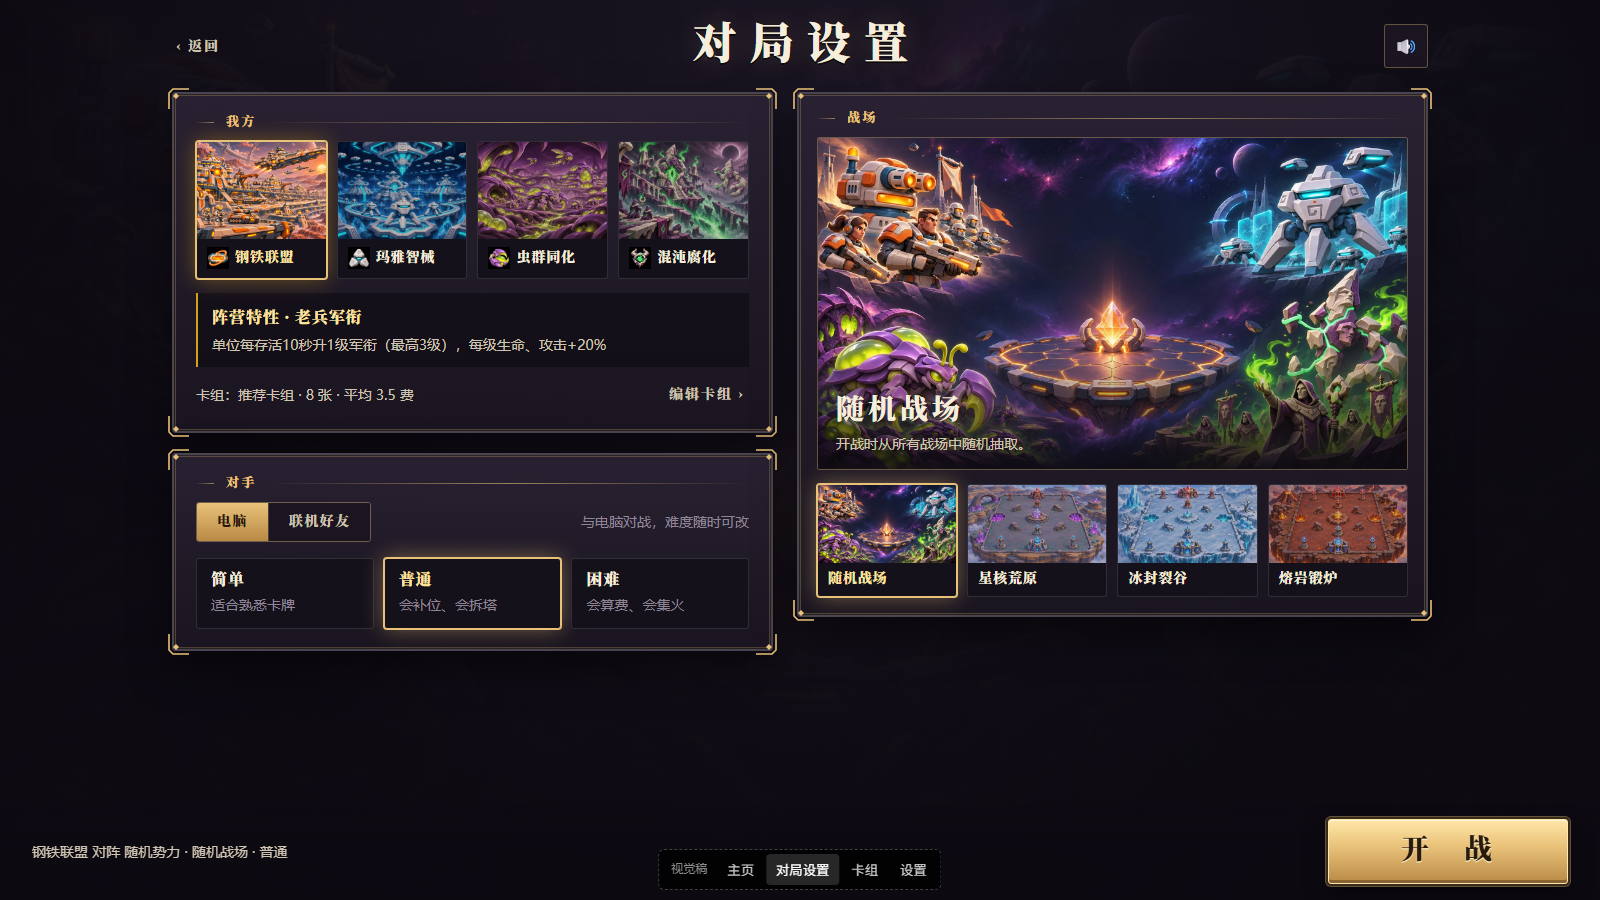
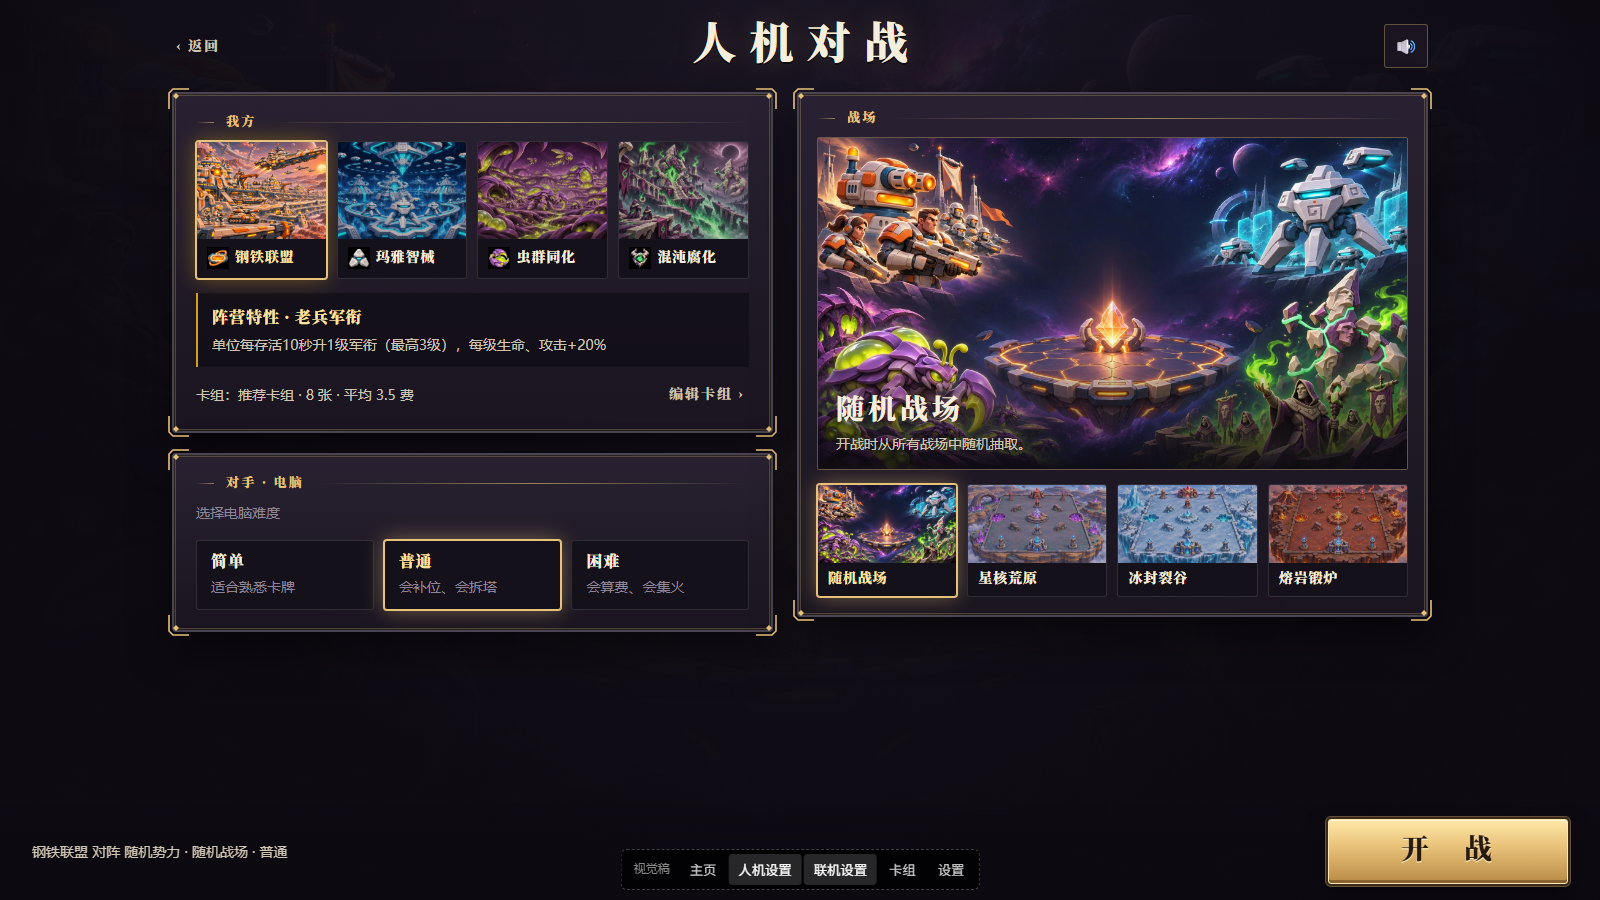
视觉稿 v0.2:主页改居中对称;人机/联机两个入口放主页,设置页按入口分模式;计划同步批注

diff --git a/mockup/index.html b/mockup/index.html
@@ -28,6 +28,7 @@
   :root { --t-display: 40px; --t-h1: 30px; --t-h2: 22px; --t-h3: 18px; --t-body: 15px; --t-over: 12px; }
 }
 * { box-sizing: border-box; }
+[hidden] { display: none !important; }
 html, body { margin: 0; height: 100%; }
 body {
   background: var(--bg-0); color: var(--ink-1); font: 400 var(--t-body)/1.55 var(--f-body);
@@ -37,7 +38,7 @@ body {
 
 /* 背景:主视觉 + 压暗(二级页压得更暗,突出内容) */
 .screen { position: fixed; inset: 0; display: none; overflow: auto;
-  background: linear-gradient(90deg, #0d0a12f2 0%, #0d0a12b8 34%, #0d0a1230 60%, #0d0a1200 100%), url(../assets/ui/bg_menu.webp) center / cover no-repeat, var(--bg-0); }
+  background: radial-gradient(ellipse 34% 62% at 50% 56%, #0d0a12cc 0%, #0d0a1299 55%, #0d0a1200 100%), linear-gradient(#0d0a1266, #0d0a1200 30%, #0d0a1200 70%, #0d0a12cc), url(../assets/ui/bg_menu.webp) center / cover no-repeat, var(--bg-0); }
 .screen.sub { background: radial-gradient(ellipse at 50% 0%, #2a223366, #0d0a12f0 70%), linear-gradient(#0d0a12d9, #0d0a12f2), url(../assets/ui/bg_menu.webp) center / cover no-repeat, var(--bg-0); }
 .screen.on { display: block; animation: enter .22s var(--ease); }
 @keyframes enter { from { opacity: 0; transform: translateY(8px); } }
@@ -79,20 +80,25 @@ body {
 .btn-text:hover { color: var(--gold-hi); }
 .btn-text:hover::after { transform: scaleX(1); }
 
-/* ── 主页 ── */
-.home { min-height: 100%; display: grid; grid-template-columns: minmax(340px, 420px) 1fr; padding: 48px 0 40px 72px; }
-.command { align-self: center; padding: 34px 30px 26px; display: grid; gap: 12px; }
-.command .logo { width: 100%; max-width: 340px; margin: -8px auto 10px; display: block; filter: drop-shadow(0 8px 18px #000c); }
-.start { display: grid; gap: 4px; text-align: left; padding: 20px 26px 18px; }
-.start .label { font-size: var(--t-h1); letter-spacing: .14em; display: flex; justify-content: space-between; align-items: center; }
-.start .label::after { content: '▸'; font-size: .7em; }
-.start .config { font: 600 var(--t-small)/1.3 var(--f-body); letter-spacing: 0; color: #4a3318; text-shadow: none; display: flex; align-items: center; gap: 6px; }
-.start .config img { width: 20px; height: 20px; }
-.command .btn-secondary { text-align: left; }
-.divider { height: 1px; background: linear-gradient(90deg, transparent, #e9c27a66, transparent); margin: 6px 0; }
-.xr-row { display: flex; align-items: center; gap: 12px; }
-.xr-row .btn-secondary { flex: 0 0 auto; border-color: #9a86ff99; }
-.xr-row .btn-secondary:hover { color: #d9d0ff; border-color: #b6a8ff; box-shadow: inset 0 0 18px #9a86ff33, 0 0 0 2px #0d0a12; }
+/* ── 主页:居中对称,呼应主视觉的中轴(左右两侧立绘对称、中间是晶石祭坛)── */
+.home { min-height: 100%; display: grid; justify-items: center; align-content: center; gap: 18px; padding: 28px 16px 64px; }
+.home .logo { width: min(520px, 84vw); display: block; filter: drop-shadow(0 10px 24px #000d); margin-bottom: -4px; }
+.command { width: min(440px, 100%); padding: 28px 28px 22px; display: grid; gap: 12px; text-align: center;
+  background: linear-gradient(180deg, #221b2ae6, #15111bf0); backdrop-filter: blur(4px); }
+.mode { display: grid; gap: 4px; justify-items: center; padding: 18px 24px 16px; }
+.mode .label { font-size: var(--t-h1); letter-spacing: .22em; padding-left: .22em; }
+.mode .config { font: 600 var(--t-small)/1.3 var(--f-body); letter-spacing: 0; display: flex; align-items: center; gap: 6px; }
+.mode .config img { width: 20px; height: 20px; }
+.btn-primary.mode .config { color: #4a3318; text-shadow: none; }
+.btn-secondary.mode { padding: 14px 24px 13px; }
+.btn-secondary.mode .label { font-size: var(--t-h2); }
+.btn-secondary.mode .config { color: var(--ink-2); }
+.minor { display: grid; grid-template-columns: repeat(3, 1fr); gap: 10px; }
+.minor .btn-secondary { padding: 12px 0; font-size: var(--t-body); }
+.divider { height: 1px; background: linear-gradient(90deg, transparent, #e9c27a66, transparent); margin: 4px 0; }
+.xr-link { justify-self: center; display: inline-flex; align-items: center; gap: 8px; color: #c9bfff; }
+.xr-link:hover { color: #e6e0ff; }
+.xr-link::after { background: #9a86ff; }
 .muted { color: var(--ink-3); font-size: var(--t-small); }
 .foot { position: fixed; right: 24px; bottom: 14px; color: var(--ink-3); font-size: var(--t-caption); letter-spacing: .08em; }
 .tools { position: fixed; top: 20px; right: 24px; display: flex; gap: 8px; }
@@ -199,8 +205,7 @@ body {
 
 /* ── 手机 ── */
 @media (max-width: 720px) {
-  .home { grid-template-columns: 1fr; padding: 24px 16px 70px; }
-  .command { padding: 26px 18px 20px; }
+  .command { padding: 22px 16px 18px; }
   .page { padding: 16px 16px 140px; }
   .topbar h1 { letter-spacing: .16em; }
   .setup, .deck { grid-template-columns: 1fr; }
@@ -221,26 +226,28 @@ body {
 <!-- ═════════ 主页 ═════════ -->
 <section class="screen on" id="s-home">
   <div class="home">
-    <div class="command frame">
+    <img class="logo" src="../assets/ui/brand/logo-zh.webp" alt="星轨对决">
+    <nav class="command frame" aria-label="主菜单">
       <span class="corners"><i></i><i></i><i></i><i></i></span>
-      <img class="logo" src="../assets/ui/brand/logo-zh.webp" alt="星轨对决">
-      <button class="btn btn-primary start" data-go="s-setup" title="视觉稿:实际为直接开局">
+      <button class="btn btn-primary mode" data-go="s-setup" data-mode="ai">
         <span class="label">开始游戏</span>
-        <span class="config"><img src="../assets/emblems/emblem_steel.webp" alt="">钢铁联盟 · 随机战场 · 普通电脑</span>
+        <span class="config"><img src="../assets/emblems/emblem_steel.webp" alt="">人机对战 · 钢铁联盟 · 普通</span>
       </button>
-      <button class="btn btn-secondary" data-go="s-setup">对局设置</button>
-      <button class="btn btn-secondary" data-go="s-deck">卡组</button>
-      <button class="btn btn-secondary">图鉴</button>
-      <button class="btn btn-secondary" data-go="s-settings">设置</button>
+      <button class="btn btn-secondary mode" data-go="s-setup" data-mode="online">
+        <span class="label">联机游戏</span>
+        <span class="config">和好友对战 · 建房或输入房号</span>
+      </button>
       <div class="divider"></div>
-      <div class="xr-row">
-        <button class="btn btn-secondary">◈ 空间大厅</button>
-        <span class="muted">已检测到 XR 设备</span>
+      <div class="minor">
+        <button class="btn btn-secondary" data-go="s-deck">卡组</button>
+        <button class="btn btn-secondary">图鉴</button>
+        <button class="btn btn-secondary" data-go="s-settings">设置</button>
       </div>
-    </div>
+      <button class="btn btn-text xr-link">◈ 进入空间大厅（XR）</button>
+    </nav>
   </div>
   <div class="tools"><button class="icon-btn" title="音效">🔊</button></div>
-  <div class="foot">STAR CLASH · 视觉稿 v0.1</div>
+  <div class="foot">STAR CLASH · 视觉稿 v0.2</div>
 </section>
 
 <!-- ═════════ 对局设置(原备战 + 联机)═════════ -->
@@ -248,7 +255,7 @@ body {
   <div class="page">
     <header class="topbar">
       <div><button class="btn btn-text" data-go="s-home">‹ 返回</button></div>
-      <h1>对局设置</h1>
+      <h1 id="setup-title">人机对战</h1>
       <div class="right"><button class="icon-btn" title="音效">🔊</button></div>
     </header>
     <div class="setup">
@@ -262,11 +269,8 @@ body {
         </section>
         <section class="slot frame">
           <span class="corners"><i></i><i></i><i></i><i></i></span>
-          <h2 class="over">对手</h2>
-          <div class="opp-row">
-            <div class="seg" id="opp"><button class="sel" data-v="ai">电脑</button><button data-v="online">联机好友</button></div>
-            <span class="muted" id="opp-hint">与电脑对战，难度随时可改</span>
-          </div>
+          <h2 class="over" id="opp-title">对手 · 电脑</h2>
+          <p class="muted" id="opp-hint" style="margin:0"></p>
           <div class="diffs" id="diffs">
             <button class="choice diff"><span class="name">简单</span><small>适合熟悉卡牌</small></button>
             <button class="choice diff sel"><span class="name">普通</span><small>会补位、会拆塔</small></button>
@@ -356,7 +360,7 @@ body {
 </section>
 
 <nav class="mock-nav" id="mock-nav"><span>视觉稿</span>
-  <button data-go="s-home" class="sel">主页</button><button data-go="s-setup">对局设置</button><button data-go="s-deck">卡组</button><button data-go="s-settings">设置</button>
+  <button data-go="s-home" class="sel">主页</button><button data-go="s-setup" data-mode="ai">人机设置</button><button data-go="s-setup" data-mode="online">联机设置</button><button data-go="s-deck">卡组</button><button data-go="s-settings">设置</button>
 </nav>
 
 <script>
@@ -388,10 +392,14 @@ let fac = FACTIONS[0], map = MAPS[0], opp = 'ai', deck = [...PRESET];
 
 function go(id) {
   document.querySelectorAll('.screen').forEach(s => s.classList.toggle('on', s.id === id));
-  document.querySelectorAll('#mock-nav button').forEach(b => b.classList.toggle('sel', b.dataset.go === id));
+  document.querySelectorAll('#mock-nav button').forEach(b => b.classList.toggle('sel', b.dataset.go === id && (!b.dataset.mode || b.dataset.mode === opp)));
   scrollTo(0, 0);
 }
-document.addEventListener('click', e => { const b = e.target.closest('[data-go]'); if (b) go(b.dataset.go); });
+document.addEventListener('click', e => {
+  const b = e.target.closest('[data-go]'); if (!b) return;
+  if (b.dataset.mode) { opp = b.dataset.mode; renderSetup(); }   // 主页两个入口进同一个设置页,模式不同
+  go(b.dataset.go);
+});
 
 function renderSetup() {
   $('#factions').innerHTML = FACTIONS.map(f => `<button class="choice${f === fac ? ' sel' : ''}" style="--fc:${f.color}" data-f="${f.id}">
@@ -404,15 +412,15 @@ function renderSetup() {
   $('#map-img').src = map.img || `../assets/scenes/${map.id}/concept.webp`;
   $('#map-name').textContent = map.name; $('#map-desc').textContent = map.desc;
   const online = opp === 'online';
+  $('#setup-title').textContent = online ? '联机对战' : '人机对战';
+  $('#opp-title').textContent = online ? '对手 · 好友' : '对手 · 电脑';
   $('#diffs').hidden = online; $('#online').classList.toggle('on', online); $('#board').hidden = !online;
-  $('#opp-hint').textContent = online ? '建房后把房号发给好友，或输入好友的房号' : '与电脑对战，难度随时可改';
+  $('#opp-hint').textContent = online ? '建房后把房号发给好友；或者输入好友的房号加入' : '选择电脑难度';
   $('#go').textContent = online ? '创建房间' : '开　战';
   $('#go-hint').textContent = online ? `${fac.name} · ${map.name} · 等待好友加入` : `${fac.name} 对阵 随机势力 · ${map.name} · 普通`;
-  document.querySelectorAll('#opp button').forEach(b => b.classList.toggle('sel', b.dataset.v === opp));
 }
 $('#factions').addEventListener('click', e => { const b = e.target.closest('[data-f]'); if (b) { fac = FACTIONS.find(f => f.id === b.dataset.f); renderSetup(); } });
 $('#maps').addEventListener('click', e => { const b = e.target.closest('[data-m]'); if (b) { map = MAPS.find(m => m.id === b.dataset.m); renderSetup(); } });
-$('#opp').addEventListener('click', e => { const b = e.target.closest('[data-v]'); if (b) { opp = b.dataset.v; renderSetup(); } });
 $('#diffs').addEventListener('click', e => { const b = e.target.closest('.diff'); if (b) { document.querySelectorAll('.diff').forEach(d => d.classList.toggle('sel', d === b)); } });
 
 function renderDeck() {
@@ -438,7 +446,7 @@ document.querySelectorAll('#s-settings .seg').forEach(seg => seg.addEventListene
   const b = e.target.closest('button'); if (b) seg.querySelectorAll('button').forEach(x => x.classList.toggle('sel', x === b));
 }));
 renderSetup(); renderDeck();
-const start = new URLSearchParams(location.search).get('s'); if (start) go(start);
+const q = new URLSearchParams(location.search); if (q.get('m')) { opp = q.get('m'); renderSetup(); } if (q.get('s')) go(q.get('s'));
 </script>
 </body>
 </html>

diff --git a/docs/ui-redesign-plan.md b/docs/ui-redesign-plan.md
@@ -70,24 +70,26 @@
 - 按钮悬停 120ms、页面切换 200ms 淡入加 8px 上移；`prefers-reduced-motion` 下关闭位移。
 - 悬停 / 点击接现有 `sfx.js` 的音效（RTS 菜单的手感很大部分来自声音）。
 
-## 2. 信息架构（改后）
+## 2. 信息架构（改后，2026-11-20 按批注修订）
 
 ```
-主页（含品牌） ──开始游戏(主)──────────────▶ 对局（上次的配置）
-   ├─ 遭遇战设置 ──▶ 对局设置页：我方(阵营·卡组) │ 对手(电脑难度 / 联机好友) │ 战场 ──开战(主)──▶ 对局
-   ├─ 卡组        ──▶ 卡组页
-   ├─ 图鉴        ──▶ 图鉴页
-   ├─ 设置        ──▶ 设置页（语言只在这里）
-   └─ 空间大厅(XR)
+主页（居中，含品牌字标）
+   ├─ 开始游戏(主)  ──▶ 人机对战设置：我方(阵营·卡组) │ 对手·电脑(难度) │ 战场 ──开战──▶ 对局
+   ├─ 联机游戏      ──▶ 联机对战设置：我方(阵营·卡组) │ 对手·好友(昵称·建房/房号) │ 战场 + 排行榜 ──创建房间──▶ 等待 ──▶ 对局
+   ├─ 卡组 · 图鉴 · 设置（一行三个次按钮）
+   └─ 进入空间大厅（XR，文字按钮）
 ```
 
-- **标题页取消**（批注点 A）：首次进入直接到主页；品牌由主页大字标承担。
-- **「快速开战」改名「开始游戏」**，副标题写上这一局的配置（阵营 · 战场 · 难度），一眼知道点下去会发生什么。
-- **「备战」改名「对局设置」**，并**合并联机页**（批注点 B）：对手槽里切「电脑」或「联机好友」；选联机后，同一位置出现建房 / 输入房号，主按钮从「开战」变成「创建房间」。排行榜放到这一屏的侧栏。
+- **主页居中对称**（批注）：主视觉是左右对称构图（两侧立绘，中间晶石祭坛），菜单放在中轴上，字标在上、菜单面板在下。原方案的左侧竖排与背景不匹配，已改。
+- **人机 / 联机两个入口都放主页**（批注）：「开始游戏」= 人机对战，「联机游戏」紧跟其下；两个入口进同一个设置页，模式由入口决定，页内不再有「电脑 / 联机好友」切换。
+- **「对局设置」并入开始游戏**（批注）：主页不再单独放「对局设置」；点开始游戏先进设置页（记住上次选择），再点「开战」。代价：从主页到对局多一次点击（1 → 2）。如需保留一键开局，可在设置页之外另加「快速开战」，待定。
+- 标题页仍建议取消（批注点 A）。
 
 ## 3. 各屏布局
 
 ### 3.1 主页（桌面 1600×900）
+
+> 已按批注改为居中布局，以视觉稿 `mockup/index.html` 为准，下方草图仅作历史记录。
 
 ```
 ┌───────────────────────────────────────────────────────────────┐
@@ -111,6 +113,8 @@
 - 手机：同一列按钮占满宽度，字标在上。
 
 ### 3.2 对局设置页（原备战 + 联机）
+
+> 已按批注改为两种模式（人机 / 联机），由主页入口决定，页内无切换；以视觉稿为准。
 
 ```
 ┌ ‹ 返回        对 局 设 置                                    🔊 ┐
